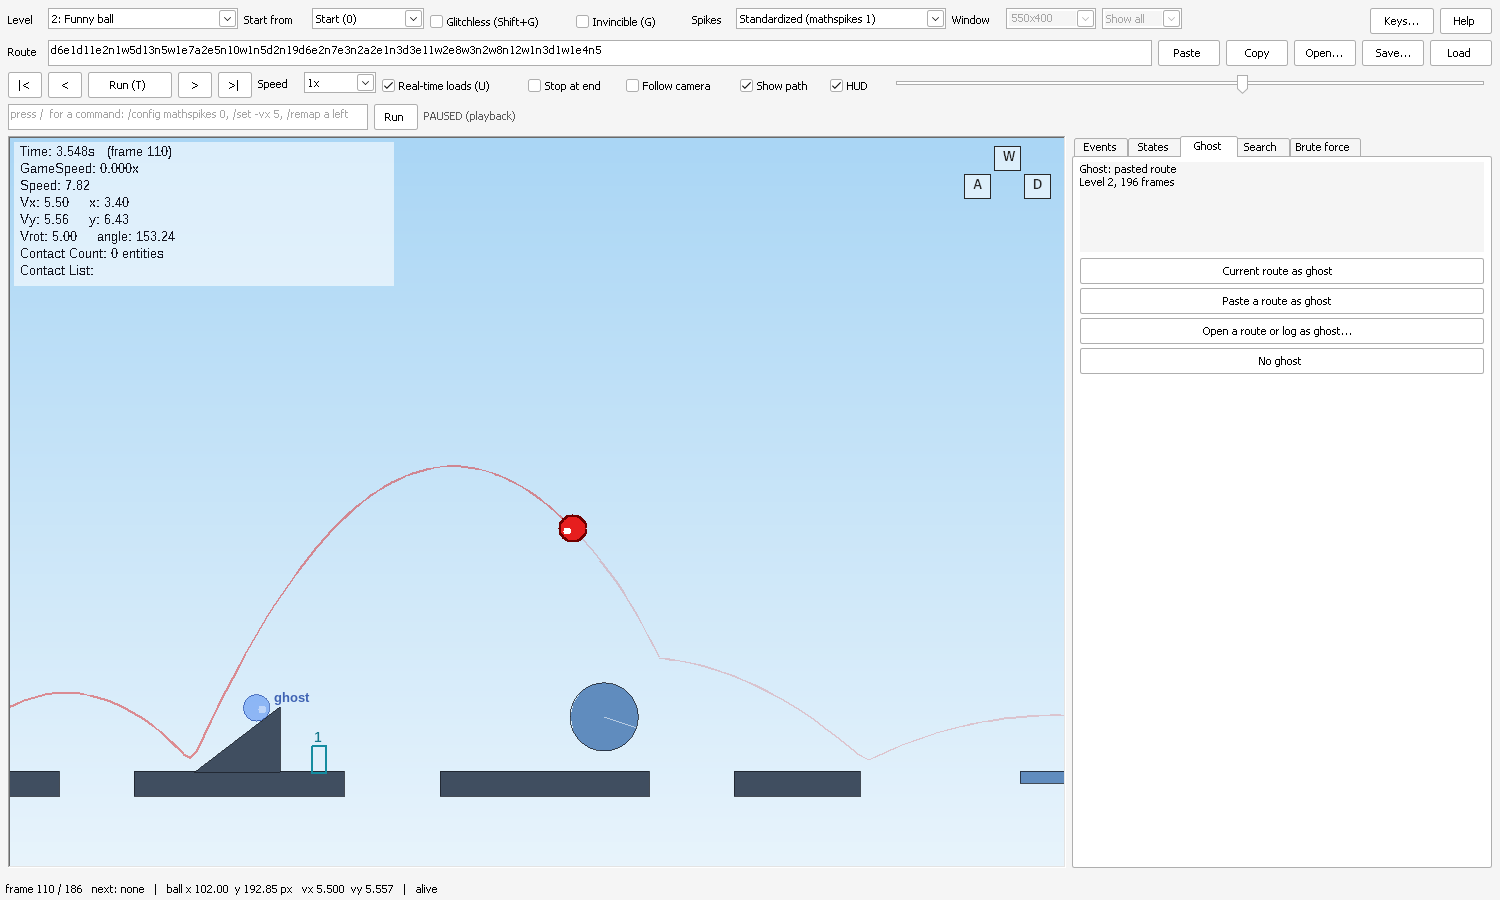
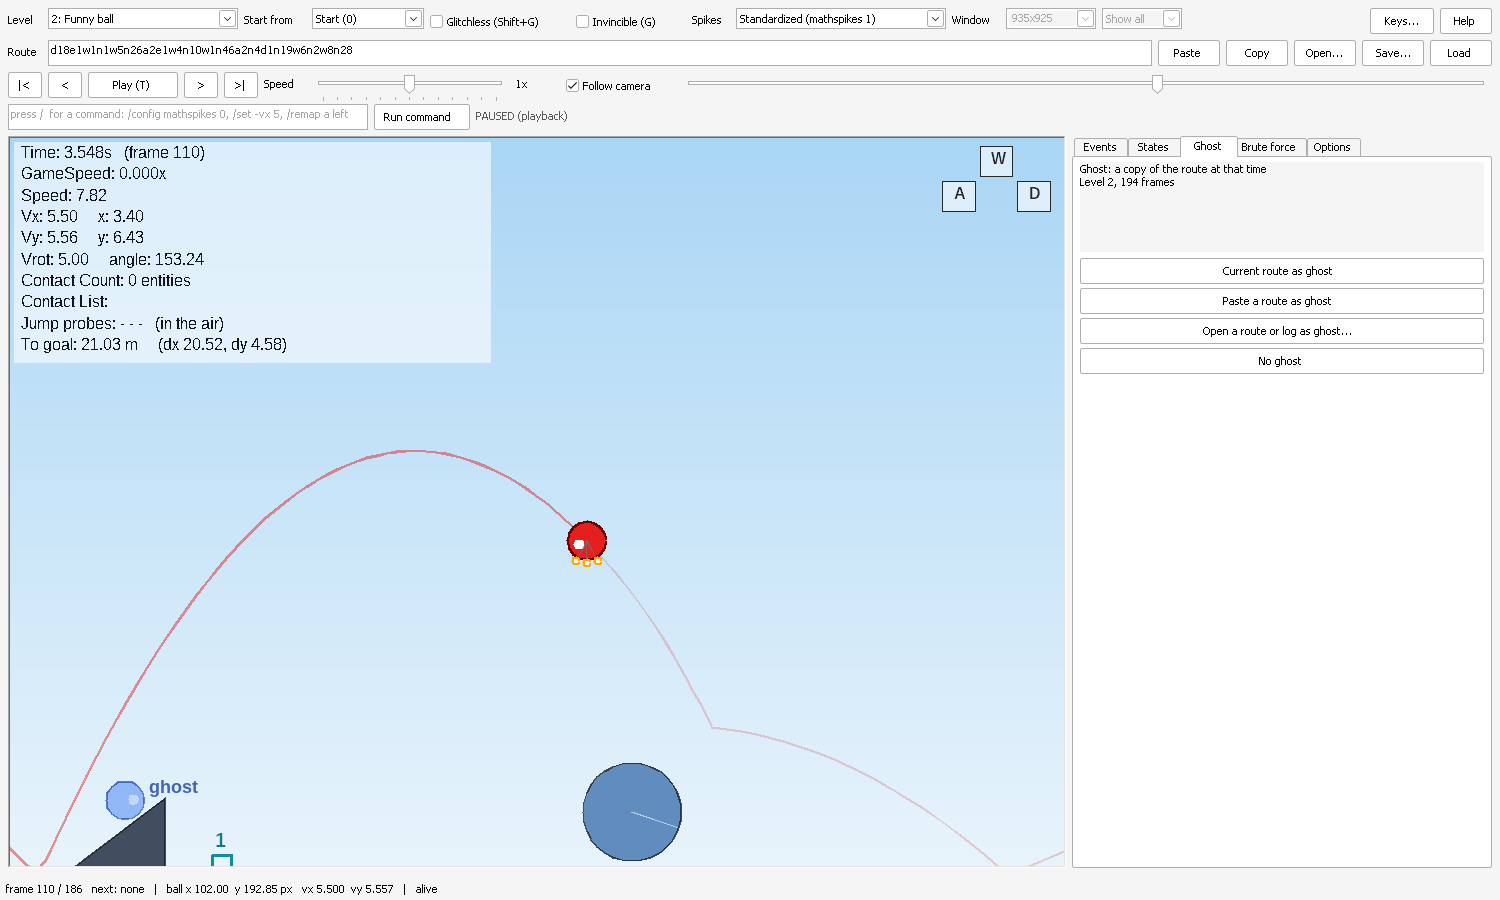
README for v2.0: what's new, viewer features, new screenshot
Claude-Session: https://claude.ai/code/session_01Um9kSdXSRBWPbjcwrEQ2m6

diff --git a/README.md b/README.md
@@ -21,6 +21,35 @@ frame matches that Flash Player to the last bit.
 | smartforce | `rbsim smartforce`: simulates every string of an input pattern and reports those meeting conditions |
 | tests | `rbsim test`: 97 self-tests; `make tastest`: the TAS core of the viewer |
 
+## What's new in v2.0
+
+- **Red Ball TAS (`rbview.exe`)** is now the Practice Hack's TAS mode on the simulator: the mod's keys and
+  behaviour, with a proper UI (below). New since v1.2:
+  - savestates without a limit, with names, kept in a file, plus backups of every route a restart, rewind or
+    load replaced;
+  - a ghost route to race against, and the jump brute-forcer's candidates actually simulated;
+  - every setting the mod has as a key or a command is also a checkbox or slider (Options tab);
+  - Space can be held to keep stepping while you press other keys;
+  - the HUD grows with the window and shows the distance to the flag and the jump probes (also drawn under
+    the ball, Shift+J);
+  - spike hitboxes are drawn as the game tests them (Shift+H). Under `mathspikes 0` they are the exact window
+    pixels that kill at the chosen window size;
+  - the view follows the game camera unless you drag it.
+- **`rbsim smartforce`** (contributed by @donaldkabelhdmi in PR #2) simulates every input string of a
+  hand-written pattern and lists those that meet your conditions (section below). It replaces `rbsim optimize`,
+  `rbsim beam` and the viewer's Search tab; those are in the git history up to commit `7a21128`.
+- **Faster engine** (PR #2): exact shortcuts, 1.31x on Level 14 replays. The results are unchanged bit for
+  bit: per-frame full-state digests match the previous engine on 2,040 random runs over all 17 levels,
+  checkpoints, restarts and the three spike rules.
+- **Fixes:**
+  - Level 15 started from a checkpoint and then from the beginning closed the program ("new body name after
+    template freeze"). The loose plank exists only from the level start; every start is now registered when
+    a level is first built.
+  - Drop platforms re-created more than 96 times (riding one on Level 4, 6 or 14) closed the program ("body
+    capacity exceeded"). The slots of destroyed bodies are now reused, only once the slots run out, so
+    verified routes are unchanged.
+  - Windows: a crash when worker threads ended (the physics scratch buffers now use fiber-local storage).
+
 ## Red Ball TAS / route viewer (Windows, no command line)
 
 **[⬇ Download rbview.exe](https://github.com/Theme25/project-unnamed/releases/latest/download/rbview.exe)**
@@ -35,16 +64,18 @@ Backspace rewind, R/F restarts, G invincibility, Shift+G glitchless, H/J overlay
   replaced;
 - a ghost route to race against;
 - the jump brute-forcer's candidates actually simulated;
-- remappable keys that stay out of the way while you type;
-- the route viewer: seek any frame, events list, death-warp ghost, path, HUD, Flash's spike test at any window size.
+- remappable keys that stay out of the way while you type, and every setting as a checkbox or slider;
+- the route viewer: seek any frame, events list, death-warp ghost, path, a HUD that scales with the window
+  (distance to the flag, jump probes), spike hitboxes as the game tests them, Flash's spike test at any window
+  size.
 Guide and full key list: [`docs/WINDOWS.md`](docs/WINDOWS.md).
 Build: `make viewer` (MinGW-w64 cross build; Win32 + GDI+, static; source in `viewer/`: `tas.cpp` is the TAS logic
 without Windows code, checked natively by `make tastest && viewer/tas_test`).
-To publish a new version: create a GitHub release (new tag, e.g. `v1.1`) and attach the exe named
+To publish a new version: create a GitHub release (new tag, e.g. `v2.0`) and attach the exe named
 exactly `rbview.exe`, so the download link above keeps pointing at the newest one
-(`gh release create v1.1 rbview.exe --title "..." --notes "..."` does the same from the command line).
+(`gh release create v2.0 rbview.exe rbsim.exe --title "..." --notes "..."` does the same from the command line).
 
-![rbview: Level 2, a route against a slower ghost, with the HUD and the path](docs/rbview.png)
+![rbview: Level 2, the TAS against a ghost 8 frames behind, with the HUD, the jump probes and the path](docs/rbview.png)
 
 ## Build & run
 
@@ -53,7 +84,7 @@ exactly `rbview.exe`, so the download link above keeps pointing at the newest on
 
 ```
 make                 # see "Build flags" below; do not change them
-./rbsim test         # 95 self-tests (physics, display layer, spikes, death warps, all 17 levels, snapshots, ...)
+./rbsim test         # 97 self-tests (physics, display layer, spikes, death warps, all 17 levels, snapshots, ...)
 ./rbsim run --level 2 --inputs "n20w1d25n40" [--hex] [--every N] [--checkpoint K]
 ./rbsim log --level 2 --inputs "..."      # simulator log in the Flash mod's TSV format
 ./rbsim bench [--frames N]                # throughput
@@ -227,8 +258,8 @@ the larger of the x and y gaps; <= 0 means touching, minus the overlap depth). E
 | `viewer/tas.cpp`, `tas.h`, `tas_test.cpp` | its TAS core (the mod's keys as operations on a route), tests (`make tastest`) |
 
 All mutable state lives in fixed arrays linked by `int` indices, so `Sim copy = sim;` is a complete,
-bit-exact snapshot (152 KB). Immutable geometry is shared; scratch buffers are thread-local, so one
-sim per thread is safe.
+bit-exact snapshot (175 KB). Immutable geometry is shared; scratch buffers are per thread (fiber-local
+storage on Windows), so one sim per thread is safe.
 
 ## What is modelled beyond the physics
 
@@ -277,7 +308,9 @@ Details and numbers: `docs/STATS_LOGGING.md` §3.5-3.11.
    ids, new pair order).
 8. Game listener bug: `playerContactBodies.splice(body, 1)` always removes index 0; Add/Remove fire
    per manifold point and on feature-key changes, so the list can hold stale or duplicate entries.
-9. Destroyed bodies remain readable (the game keeps probing a dead ball).
+9. Destroyed bodies remain readable (the game keeps probing a dead ball). Their slots are reused only when
+   all are taken (a drop platform re-created on every frame it is touched), and only for bodies destroyed
+   before the last step that nothing refers to any more.
 10. Decompiler loss: JPEXS dropped the `bestEdge/bestSeparation` update in `FindMaxSeparation`; the
     AVM2 p-code has it and the port includes it.
 
@@ -351,7 +384,8 @@ section/symbol directives adapted; ARM (incl. Apple Silicon) cannot run the Inte
 ## Roadmap
 
 1. **Viewer:** `rbview.exe` is the TAS tool (the mod's keys) plus viewer, states, ghost. Possible next:
-   an input piano roll (edit frames by clicking), a real-Windows check of the keyboard timing.
+   an input piano roll (edit frames by clicking), smartforce inside the viewer, a real-Windows check of the
+   keyboard timing.
 2. **Simulator:** complete; the display layer is the player's own arithmetic, including the real game's
    shape spike test at any window size (`MATHSPIKES 0`, `docs/RESOLUTION.md`). Open: confirm it with one stats
    log recorded on real Windows; the Tournament Edition's Level 15 money tween (0.3 s of real time).
